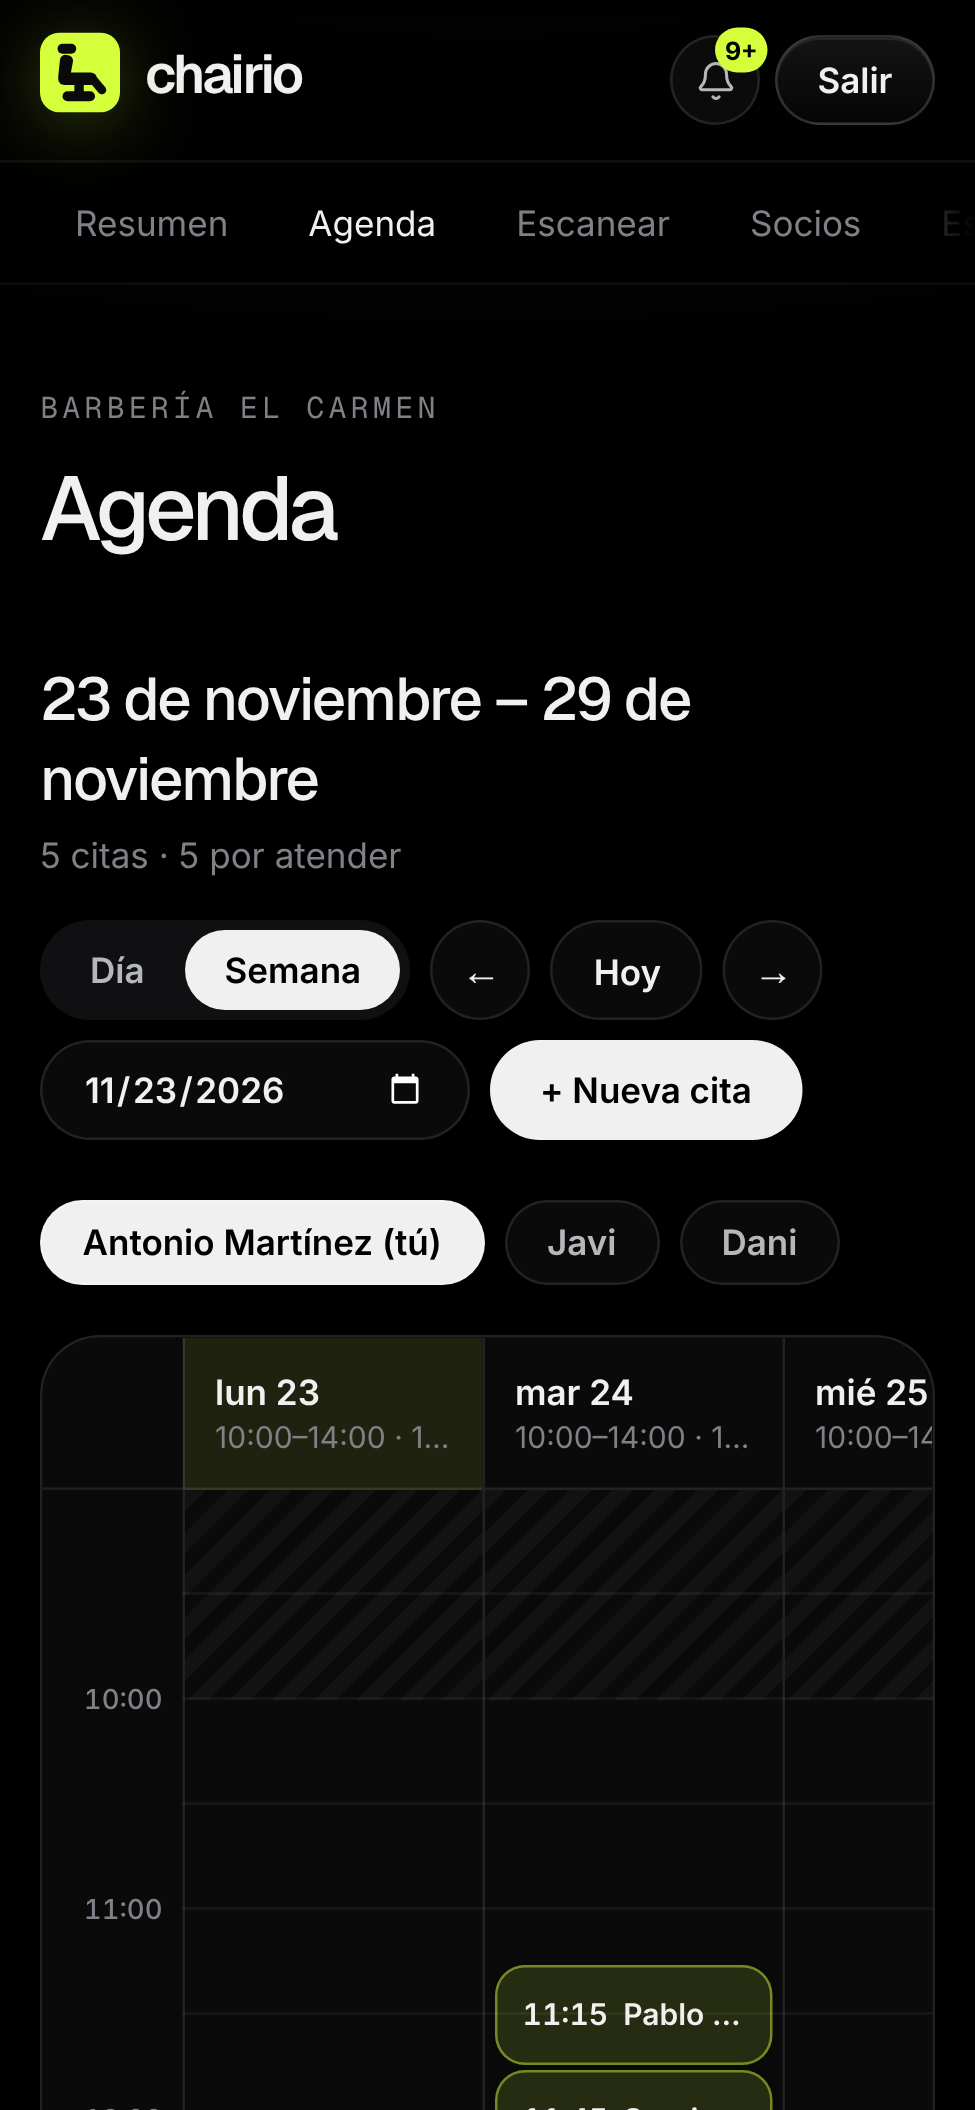
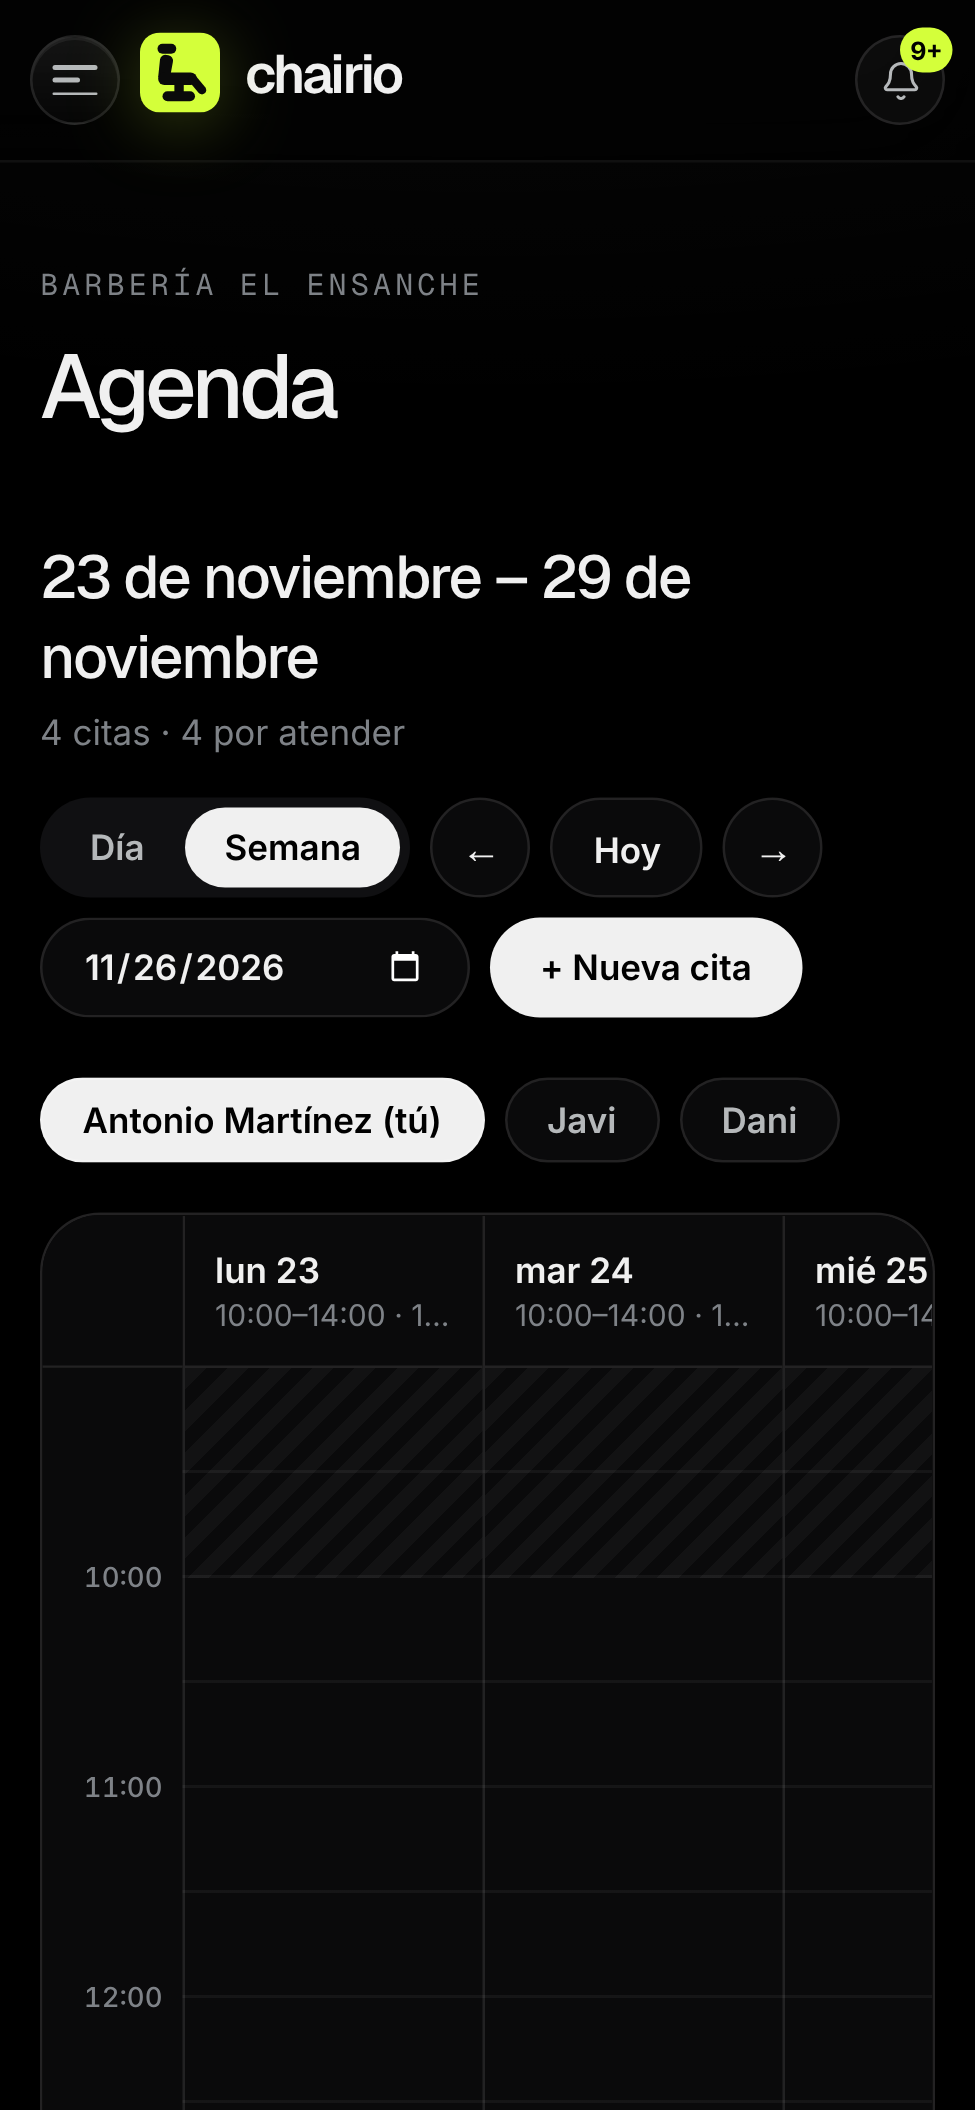
Perfil y capturas: Chairio es de Cartagena; capturas nuevas de la app
- Capturas de la app rehechas con la versión actual (menú lateral nuevo) y la
  demo de Cartagena (Barbería El Ensanche).
- Biografía y hashtags de la guía: Cartagena en vez de Murcia.

Claude-Session: https://claude.ai/code/session_01LudE5oHpFJ8q7sX2bSVU3M

diff --git a/perfil-instagram/GUIA.md b/perfil-instagram/GUIA.md
@@ -40,7 +40,7 @@ Instagram la recorta en círculo; la silla está centrada para que no se corte.
 💈 Reserva en tu barbería sin llamar
 ✂ Hazte socio: tus cortes con cuota al mes
 💼 ¿Barbería? Desde 12,99 €/mes + IVA
-📍 Murcia 👇
+📍 Cartagena 👇
 ```
 
 Alternativas:
@@ -49,14 +49,14 @@ Alternativas:
 Tu barbería de siempre, con cuota fija 💈
 Reserva sin llamar · Hazte socio
 ¿Tienes barbería? Desde 12,99 €/mes + IVA
-📍 Murcia 👇
+📍 Cartagena 👇
 ```
 
 ```
 Reserva tu corte en dos toques 📅
 Hazte socio de tu barbería ✂
 Para barberías: agenda, socios y tu página
-📍 Murcia 👇
+📍 Cartagena 👇
 ```
 
 Las tres cumplen la guía de estilo: tuteo, todo en presente, sin precios de membresía (los pone cada barbería) y sin prometer nada que la app no haga.
@@ -154,7 +154,7 @@ Con Chairio reservas tu turno sin llamar y, si quieres, te haces socio de tu bar
 
 Reserva en chairio.es
 
-#chairio #barberia #barbershop #barbero #cortedepelo #murcia #barberiamurcia #regiondemurcia
+#chairio #barberia #barbershop #barbero #cortedepelo #cartagena #barberiacartagena #regiondemurcia
 ```
 
 **2 · `2-clientes.png`**
@@ -165,7 +165,7 @@ Eliges barbería, servicio y hora en dos toques. Tu cita queda en «Mis citas» 
 
 Reserva en chairio.es
 
-#chairio #barberia #barbershop #barbero #cortedepelo #murcia #barberiamurcia #regiondemurcia #citas
+#chairio #barberia #barbershop #barbero #cortedepelo #cartagena #barberiacartagena #regiondemurcia #citas
 ```
 
 **3 · `3-barberias.png`**
@@ -176,7 +176,7 @@ Reservas online, membresías con cobro mensual para tus socios y tu página prop
 
 Da de alta tu barbería en chairio.es/para-barberias
 
-#chairio #barberia #barbershop #barbero #barberiamurcia #murcia #regiondemurcia #negociolocal
+#chairio #barberia #barbershop #barbero #barberiacartagena #cartagena #regiondemurcia #negociolocal
 ```
 
 ---
